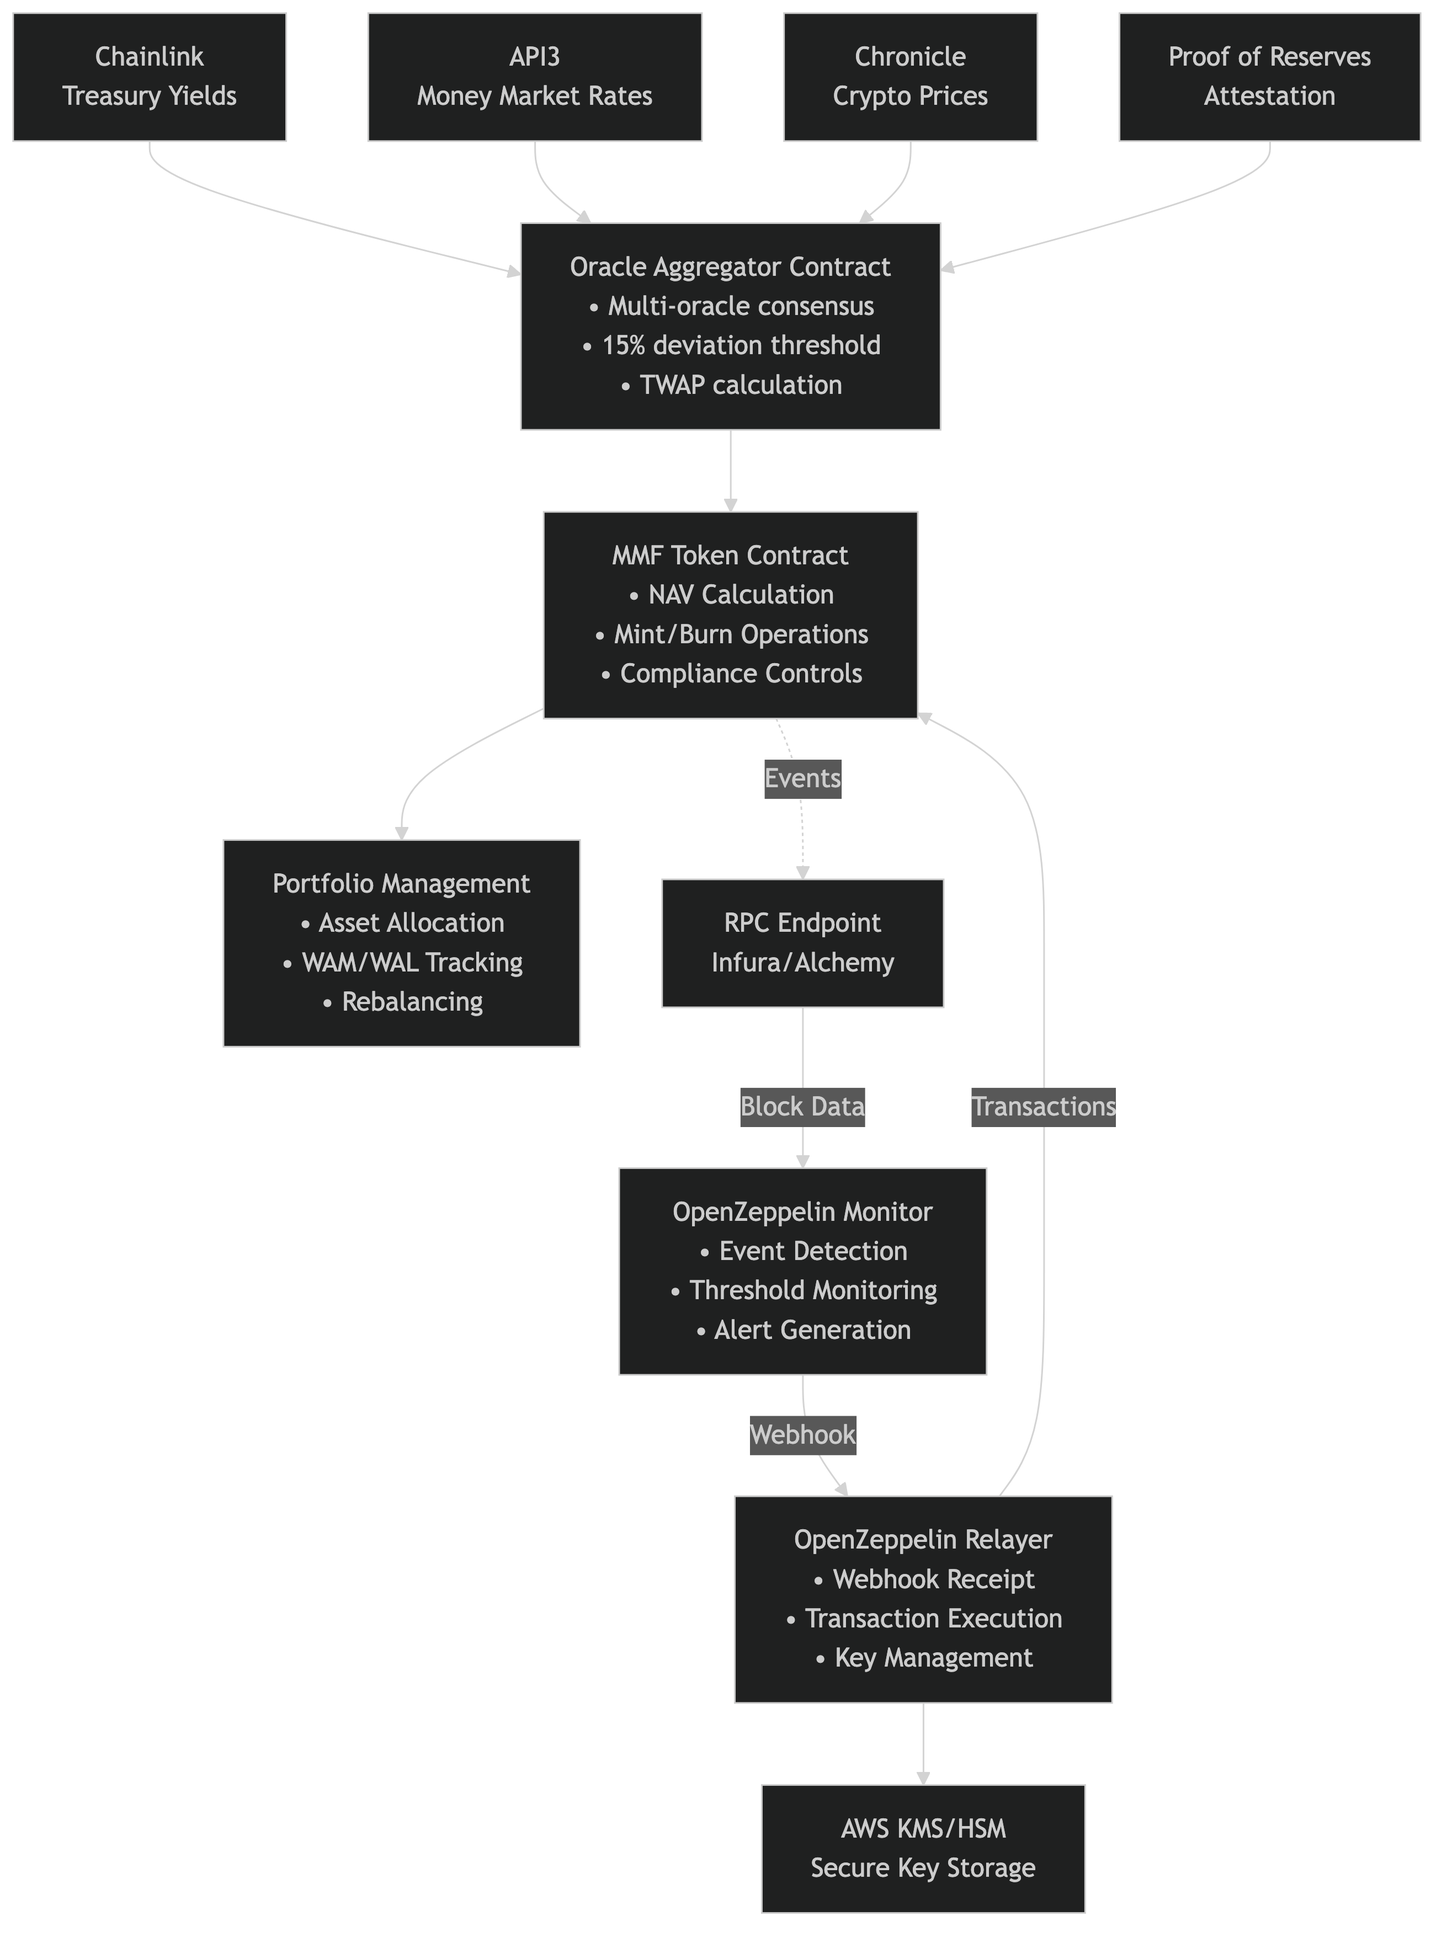
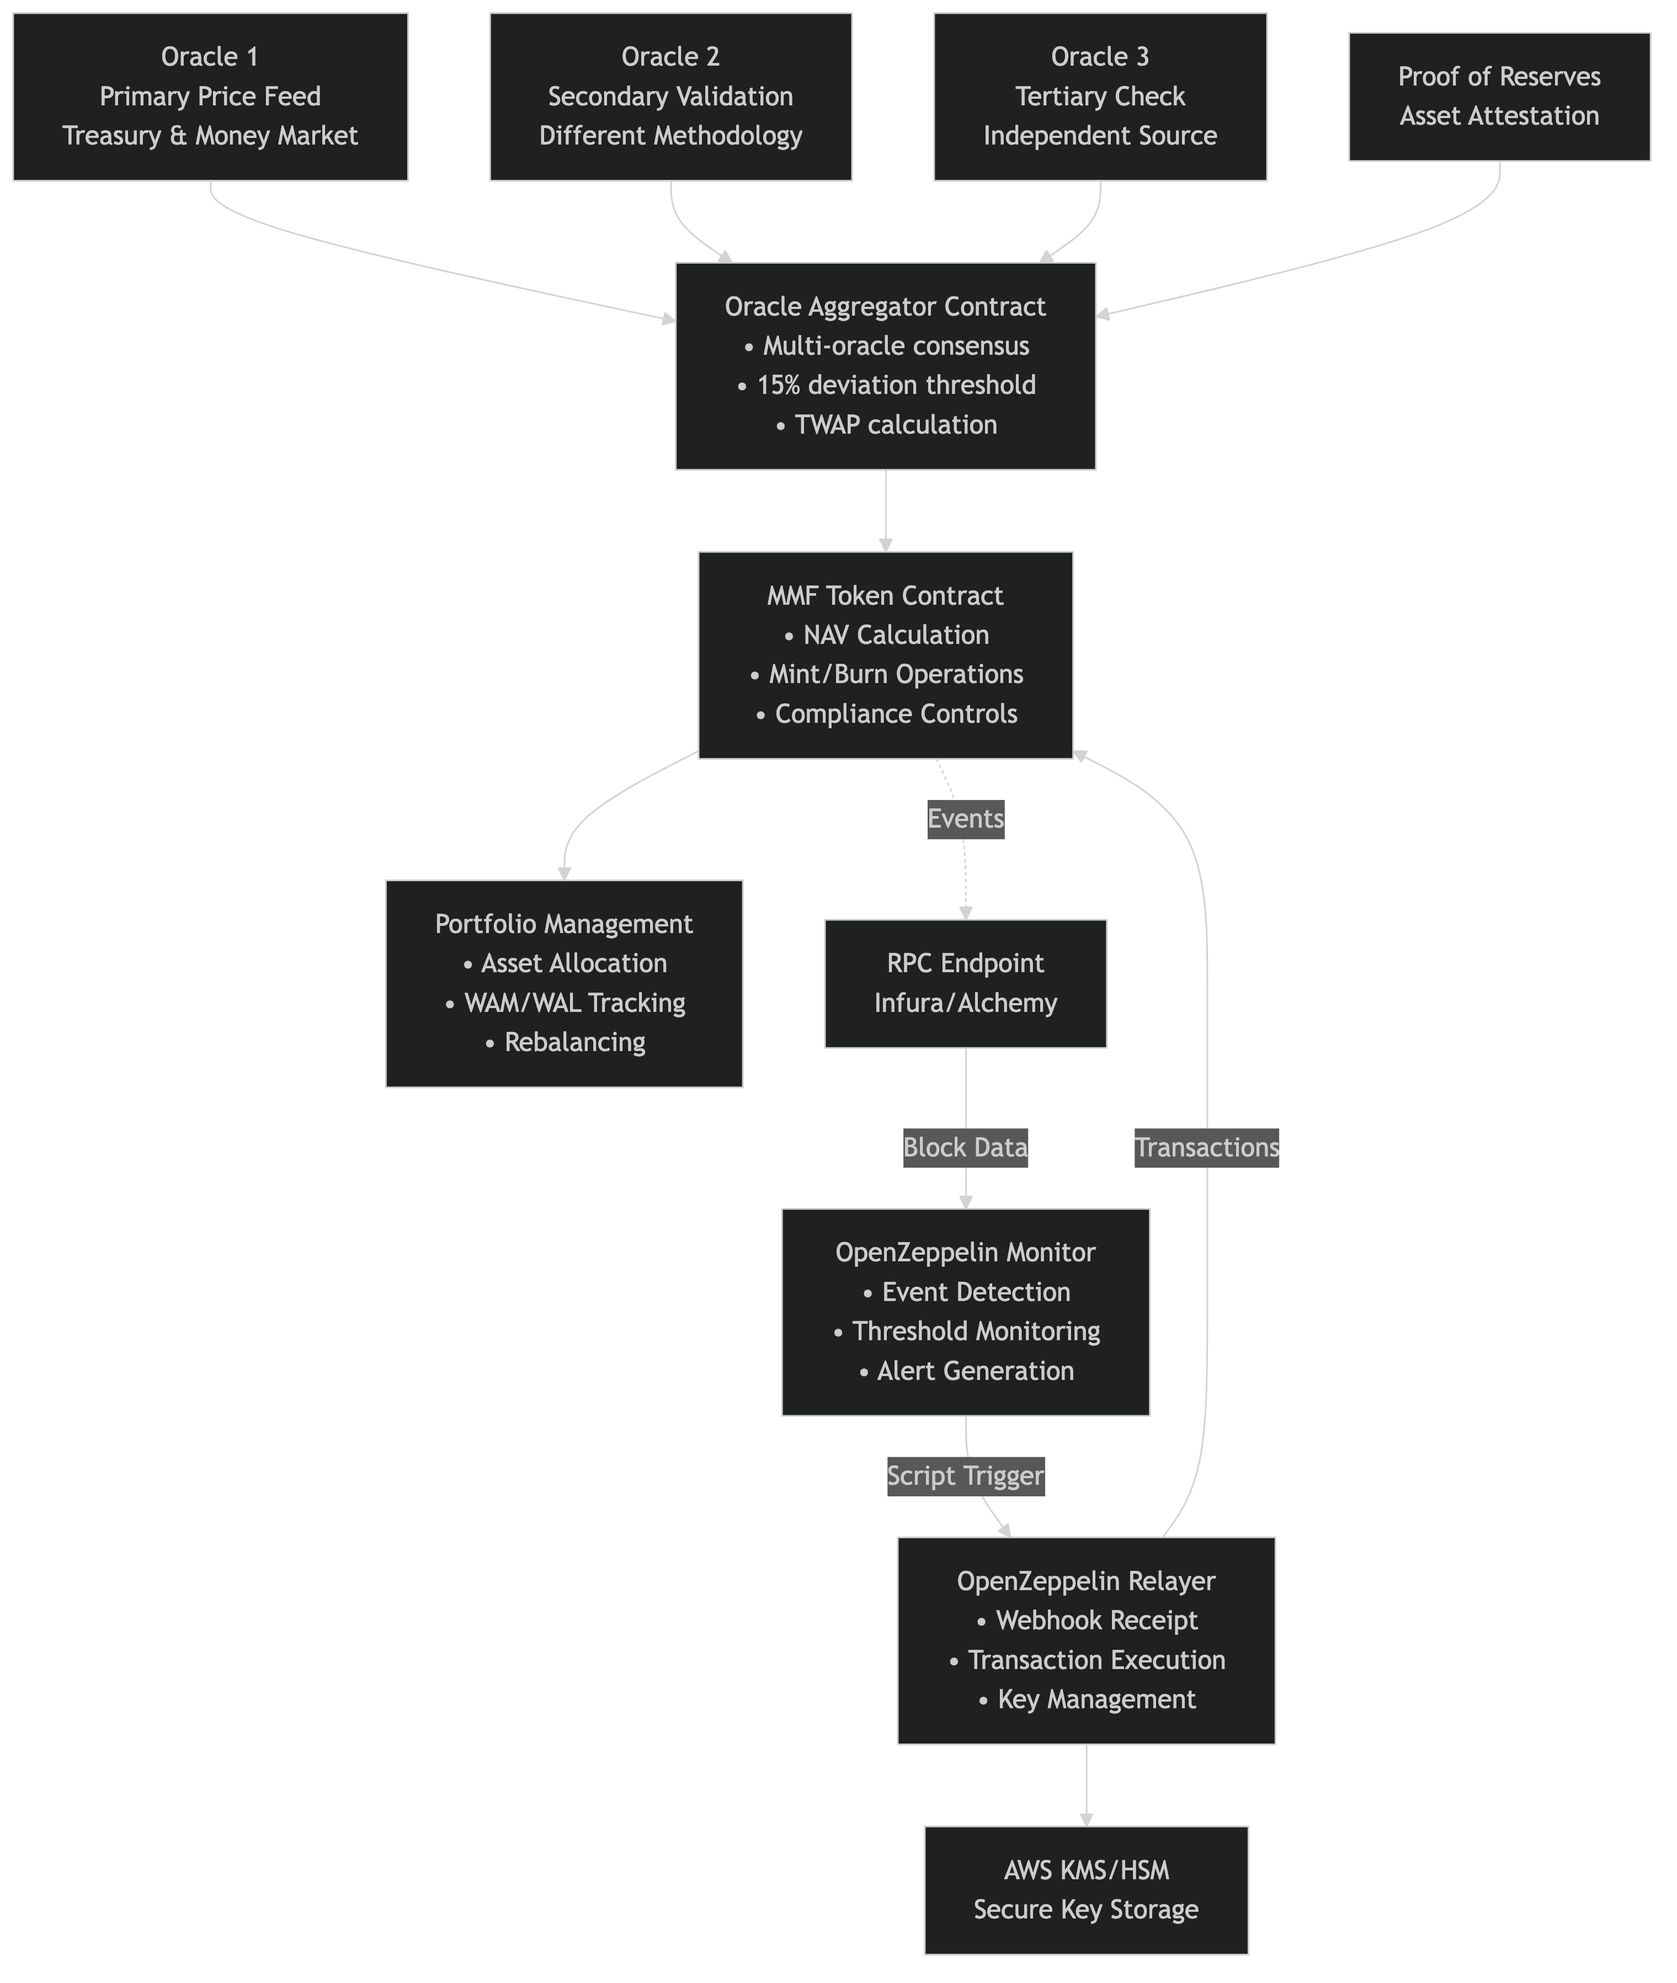
refactor: Update Exercise 2 for generic oracle approach and script triggers
- Changed from specific oracle names to generic Oracle 1/2/3 pattern
- Added oracle selection criteria to help AcmeBank evaluate providers
- Updated all webhook references to script triggers (reflects actual working integration)
- Created MMF explainer document for reference
- Regenerated all architecture diagrams with updates
- Made solution more consultative - teaching how to select rather than prescribing

Key improvements:
- More vendor-agnostic approach
- Reflects real Monitor-Relayer integration pattern
- Better educational value for client

🤖 Generated with Claude Code

Changed region(s): [[0.0, 0.0, 0.9886, 0.9994]]

diff --git a/private-docs/what-is-a-mmf.md b/private-docs/what-is-a-mmf.md
@@ -1,0 +1,153 @@
+# What is a Money Market Fund (MMF)?
+
+A Money Market Fund is essentially a super-safe savings account that invests in short-term, high-quality debt instruments.
+
+## How MMFs Work
+
+1. **You Pool Money**: When you invest in an MMF, your money is pooled with other investors' money into a large fund.
+
+2. **Fund Buys Safe Assets**: The fund manager uses this pool to buy very safe, short-term investments like:
+   - US Treasury bills (loans to the US government for <1 year)
+   - Commercial paper (short-term corporate IOUs from companies like Apple or Microsoft)
+   - Repurchase agreements (overnight loans backed by government securities)
+   - Bank certificates of deposit
+
+3. **$1.00 Stable Value**: MMFs try to maintain a Net Asset Value (the price per share) of exactly $1.00 per share. This means:
+   - You put in $1,000, you get 1,000 shares
+   - You can redeem 1,000 shares for $1,000 (plus any interest earned)
+   - The value shouldn't fluctuate like stocks or regular bonds
+
+4. **Daily Interest**: You earn interest every day, which either:
+   - Gets paid out to you monthly
+   - Automatically buys you more shares (compounds)
+
+## Why Do People Use MMFs?
+
+- **Safety**: Investing in government debt and top-rated corporate debt
+- **Liquidity**: Get your money back any business day (T+1 settlement traditionally)
+- **Better than Bank**: Usually higher yield than savings accounts
+- **Stable Value**: No price fluctuations to worry about
+
+## Types of MMFs
+
+1. **Government MMFs**: Only invests in US Treasuries and government-backed securities (safest)
+2. **Prime MMFs**: Can invest in corporate debt too (slightly higher yield, tiny bit more risk)
+3. **Tax-Exempt MMFs**: Invests in municipal bonds (tax advantages)
+
+## What Makes MMFs So Safe?
+
+### Securities and Exchange Commission (SEC) Rule 2a-7 Requirements:
+- **Weighted Average Maturity**: ≤ 60 days (can't buy long-term risky stuff)
+- **Weighted Average Life**: ≤ 120 days
+- **Daily Liquidity**: 10% of assets must be cashable same day
+- **Weekly Liquidity**: 30% must be cashable within a week
+- **Credit Quality**: Only top-rated securities allowed
+
+## The "Breaking the Buck" Fear
+
+MMFs are supposed to always be worth $1.00. If it drops below $1.00, it "breaks the buck" - this is catastrophic:
+- **2008 Reserve Primary Fund**: Held Lehman Brothers debt, dropped to $0.97, caused panic
+- **Result**: Massive redemptions, government had to guarantee MMFs temporarily
+
+---
+
+# On-Chain MMF: The Blockchain Version
+
+## What Changes with Tokenization?
+
+### Traditional MMF
+- **Settlement**: T+1 (trade today, get money tomorrow)
+- **Hours**: 9 AM - 4 PM weekdays only
+- **Access**: Need brokerage account
+- **Transparency**: See holdings monthly
+- **Costs**: Management fees, wire fees
+
+### Tokenized On-Chain MMF
+- **Settlement**: Instant (T+0)
+- **Hours**: 24/7/365
+- **Access**: Just need a wallet address
+- **Transparency**: See holdings real-time on blockchain
+- **Costs**: Gas fees + management fees
+
+## How Does an On-Chain MMF Work?
+
+1. **Smart Contract as Fund**:
+   ```
+   MMF Token Contract = The Fund
+   Your tokens = Your shares
+   Contract's assets = The portfolio
+   ```
+
+2. **Investment Flow**:
+   ```
+   You send USDC → Smart Contract mints MMF tokens → Your wallet receives tokens
+   ```
+
+3. **Net Asset Value Calculation On-Chain**:
+   ```solidity
+   Net Asset Value = (Total Portfolio Value) / (Total Tokens Outstanding)
+   // Should always equal $1.00
+   ```
+
+4. **Redemption**:
+   ```
+   You burn MMF tokens → Contract sends you USDC
+   ```
+
+## The Oracle Challenge for On-Chain MMFs
+
+### Why Oracles Matter
+The smart contract needs to know the current value of:
+- Treasury bills (off-chain asset)
+- Commercial paper (off-chain asset)
+- Repo agreements (off-chain asset)
+
+### The Problem
+- Blockchain can't read Bloomberg or Reuters
+- Need "oracles" to bring real-world prices on-chain
+- Wrong price = wrong Net Asset Value = regulatory disaster
+
+### The Solution (What We're Proposing)
+- Multiple oracles (Chainlink, API3, Chronicle)
+- Cross-validation (must agree within 2%)
+- Circuit breakers (pause if prices suspicious)
+
+## Benefits of On-Chain MMFs
+
+1. **Global Access**: Anyone, anywhere can invest (with KYC)
+2. **Instant Liquidity**: No waiting for settlement
+3. **Programmable**: Can be used as collateral in DeFi
+4. **Transparent**: Every transaction on-chain
+5. **Fractional**: Can own $1 instead of $1,000 minimum
+
+## Risks Unique to On-Chain MMFs
+
+1. **Smart Contract Risk**: Code bugs could lock funds
+2. **Oracle Risk**: Bad price data affects Net Asset Value
+3. **Gas Costs**: Ethereum fees might exceed interest on small amounts
+4. **Regulatory Uncertainty**: SEC still figuring out crypto rules
+
+## Real Examples
+
+### Traditional Money Market Funds
+- **Vanguard Federal Money Market Fund**: $260B Assets Under Management, yields ~5%
+- **Fidelity Government Money Market**: $280B Assets Under Management
+- **JPMorgan US Government MMF**: $150B Assets Under Management
+
+### Tokenized Money Market Funds (Emerging)
+- **Franklin Templeton's FOBXX**: First tokenized MMF on Stellar/Polygon
+- **Ondo Finance's OUSG**: Tokenized treasuries
+- **Backed Finance's bIBTA**: Tokenized treasury ETF
+
+## The Bottom Line
+
+A Money Market Fund is like a checking account that earns interest by investing in super-safe, short-term loans. 
+
+An on-chain Money Market Fund does the same thing, but:
+- Lives on the blockchain
+- Operates 24/7
+- Settles instantly
+- Needs oracles to know real-world prices
+- Can interact with other blockchain applications
+
+Think of it as taking the most boring, safe investment product (Money Market Fund) and making it work with the most exciting, risky technology (blockchain) - the challenge is keeping it boring and safe!

diff --git a/deliverables/2/exercise-2-mmf-presentation.md b/deliverables/2/exercise-2-mmf-presentation.md
@@ -29,19 +29,27 @@ Powered by OpenZeppelin's Enterprise Solutions
 ## 3. Oracle Architecture Solution
 **Multi-Oracle Strategy with Cross-Validation**
 
-### Primary Oracle Layer
-• **Chainlink** - Treasury yields, forex rates (proven institutional grade)
-• **API3** - First-party oracle for money market rates
-• **Chronicle** - MakerDAO's oracle for crypto collateral prices
+### How to Evaluate Oracle Providers
+**Key Criteria We Recommend:**
+• **Track Record** - How long operating? Value secured? Major incidents?
+• **Data Sources** - First-party vs aggregated? Number of data providers?
+• **Update Frequency** - Real-time? Daily? Matches your NAV calculation needs?
+• **Asset Coverage** - Treasuries? Money markets? Forex? Corporate bonds?
+• **Decentralization** - Single point of failure or distributed nodes?
+• **Cost Structure** - Subscription? Per-query? Sustainable for your AUM?
 
-### Validation Layer (via Monitor)
-• Cross-check oracles against each other (>2% deviation = alert)
-• Compare with off-chain sources (Bloomberg, Reuters)
-• Circuit breaker: Auto-pause if oracles disagree
+### Our Recommended Architecture
+• **Oracle 1** - Primary price feed (highest reliability)
+• **Oracle 2** - Secondary validation (different methodology)
+• **Oracle 3** - Tertiary check (alternative data source)
+• **Cross-Validation** - All must agree within 2% threshold
+• **Circuit Breaker** - Auto-pause if oracles disagree
 
-### Proof of Reserves
-• Chainlink PoR for Treasury backing verification
-• Real-time attestation of underlying assets
+### Example Providers to Consider
+• **Chainlink** - Market leader, 70% DeFi market share, institutional partnerships
+• **Pyth Network** - Institutional focus, sub-second updates from Jump Crypto
+• **Bloomberg Oracle** - Traditional finance data via established provider
+• **Band Protocol** - Cost-effective alternative with broad coverage
 
 ---
 
@@ -98,14 +106,14 @@ Powered by OpenZeppelin's Enterprise Solutions
 │  • Connects to RPC endpoint                          │
 │  • Watches blockchain events                         │  
 │  • Deviation detection                               │
-│  • Triggers alerts & webhooks                        │
+│  • Triggers alerts & scripts                         │
 └──────────────────────┬───────────────────────────────┘
                        │
-                  (webhook)
+              (script trigger)
                        │
 ┌──────────────────────▼───────────────────────────────┐
 │                    RELAYER                            │
-│  • Receives webhooks from Monitor                    │
+│  • Receives script triggers from Monitor             │
 │  • Executes transactions on blockchain               │
 │  • NAV updates, redemption processing               │
 │  • Emergency pausing                                 │
@@ -204,15 +212,15 @@ Powered by OpenZeppelin's Enterprise Solutions
 ### Our Multi-Oracle Approach
 ```solidity
 function calculateNAV() external view returns (uint256) {
-    uint256 chainlinkPrice = getChainlinkPrice();
-    uint256 api3Price = getAPI3Price();
-    uint256 chroniclePrice = getChroniclePrice();
+    uint256 oracle1Price = getPrimaryOracle();
+    uint256 oracle2Price = getSecondaryOracle();
+    uint256 oracle3Price = getTertiaryOracle();
     
     // Require at least 2 of 3 oracles agree within 2%
-    require(isPriceValid(chainlinkPrice, api3Price, chroniclePrice), 
+    require(isPriceValid(oracle1Price, oracle2Price, oracle3Price), 
             "Oracle disagreement");
     
-    return weightedAverage(chainlinkPrice, api3Price, chroniclePrice);
+    return weightedAverage(oracle1Price, oracle2Price, oracle3Price);
 }
 ```
 

diff --git a/deliverables/2/exercise-2-solution-document.md b/deliverables/2/exercise-2-solution-document.md
@@ -23,24 +23,40 @@ Your institution faces a critical decision: which oracle provider(s) can be trus
 
 ### Our Recommendation: Hybrid Multi-Oracle Architecture
 
-#### Primary Oracle Configuration
-```
-Tier 1 (Institutional Grade):
-- Chainlink: Treasury yields, forex rates
-- API3: First-party money market rates  
-- Chronicle: Crypto collateral (if applicable)
+#### How We Help You Select Oracle Providers
+**Key Evaluation Criteria:**
+- **Track Record**: Years operating, value secured, incident history
+- **Data Quality**: Direct source vs aggregated, update frequency
+- **Asset Coverage**: Treasuries, money markets, repos, commercial paper
+- **Architecture**: Decentralized nodes, redundancy, failover mechanisms
+- **Cost Structure**: Subscription vs per-query, scalability with AUM
+- **Compliance**: Meets regulatory requirements for price discovery
 
-Tier 2 (Validation Layer):
-- Cross-oracle validation (2% deviation threshold)
-- Off-chain reference checks (Bloomberg/Reuters)
-- Proof of Reserves integration
+#### Our Recommended Architecture
 ```
+Multi-Oracle Strategy:
+- Oracle 1: Primary price feed (highest reliability)
+- Oracle 2: Secondary validation (different methodology)
+- Oracle 3: Tertiary verification (independent source)
+
+Validation Layer:
+- Cross-oracle consensus (2% deviation threshold)
+- Sanity checks against reference prices
+- Proof of Reserves integration for underlying assets
+```
+
+#### Oracle Providers to Consider
+- **Chainlink**: Market leader, $20B+ secured, institutional partnerships
+- **Pyth Network**: Sub-second updates from major trading firms
+- **Bloomberg/Refinitiv**: Traditional finance data integration
+- **Band Protocol**: Cost-effective alternative with broad coverage
 
 #### Why This Architecture Wins
-1. **No Single Point of Failure**: Requires 2/3 oracle consensus
-2. **Manipulation Resistance**: Flash loan attacks can't affect multiple oracles
-3. **Regulatory Defensible**: Can demonstrate robust price discovery to SEC
-4. **Cost Optimized**: Tiered approach balances security with expense
+1. **No Single Point of Failure**: Multiple independent data sources
+2. **Manipulation Resistance**: Requires compromising multiple oracles simultaneously
+3. **Regulatory Defensible**: Demonstrates robust price discovery to SEC
+4. **Provider Flexibility**: Can swap oracles without architecture changes
+5. **Cost Optimized**: Mix premium and cost-effective providers
 
 ---
 
@@ -103,7 +119,7 @@ Tier 2 (Validation Layer):
 
 #### Monitors & Relayers Setup ($25,000)
 - Deploy and configure monitoring infrastructure
-- Establish webhook integrations
+- Configure script trigger integrations
 - Configure automated responses
 - Set up alerting channels
 

diff --git a/deliverables/2/exercise-2-architecture-mermaid.md b/deliverables/2/exercise-2-architecture-mermaid.md
@@ -4,10 +4,10 @@
 
 ```mermaid
 graph TB
-    CL[Chainlink<br/>Treasury Yields]
-    API[API3<br/>Money Market Rates]
-    CHR[Chronicle<br/>Crypto Prices]
-    POR[Proof of Reserves<br/>Attestation]
+    O1[Oracle 1<br/>Primary Price Feed<br/>Treasury & Money Market]
+    O2[Oracle 2<br/>Secondary Validation<br/>Different Methodology]
+    O3[Oracle 3<br/>Tertiary Check<br/>Independent Source]
+    POR[Proof of Reserves<br/>Asset Attestation]
     
     OA[Oracle Aggregator Contract<br/>• Multi-oracle consensus<br/>• 15% deviation threshold<br/>• TWAP calculation]
     
@@ -20,9 +20,9 @@ graph TB
     REL[OpenZeppelin Relayer<br/>• Webhook Receipt<br/>• Transaction Execution<br/>• Key Management]
     KMS[AWS KMS/HSM<br/>Secure Key Storage]
     
-    CL --> OA
-    API --> OA
-    CHR --> OA
+    O1 --> OA
+    O2 --> OA
+    O3 --> OA
     POR --> OA
     
     OA --> MMF
@@ -30,7 +30,7 @@ graph TB
     
     MMF -.->|Events| RPC
     RPC -->|Block Data| MON
-    MON -->|Webhook| REL
+    MON -->|Script Trigger| REL
     REL -->|Transactions| MMF
     REL --> KMS
     
@@ -41,9 +41,9 @@ graph TB
 ```mermaid
 sequenceDiagram
     participant Attacker
-    participant Oracle1 as Chainlink
-    participant Oracle2 as API3
-    participant Oracle3 as Chronicle
+    participant Oracle1 as Oracle 1 (Primary)
+    participant Oracle2 as Oracle 2 (Secondary)
+    participant Oracle3 as Oracle 3 (Tertiary)
     participant OA as Oracle Aggregator
     participant MON as Monitor
     participant REL as Relayer
@@ -59,7 +59,7 @@ sequenceDiagram
     OA-->>MON: Emit PriceAnomalyEvent
     
     MON->>MON: Detect anomaly in <30s
-    MON->>REL: Trigger emergency pause webhook
+    MON->>REL: Execute script trigger
     REL->>MMF: Execute pause()
     MMF->>MMF: Contract paused ✅
     
@@ -82,7 +82,7 @@ flowchart LR
     R3[Switch Oracle]
     R4[Delay Operations]
     
-    N1[Webhook to Relayer]
+    N1[Script Trigger to Relayer]
     N2[Email Compliance]
     N3[PagerDuty Ops]
     N4[Slack Alert]
